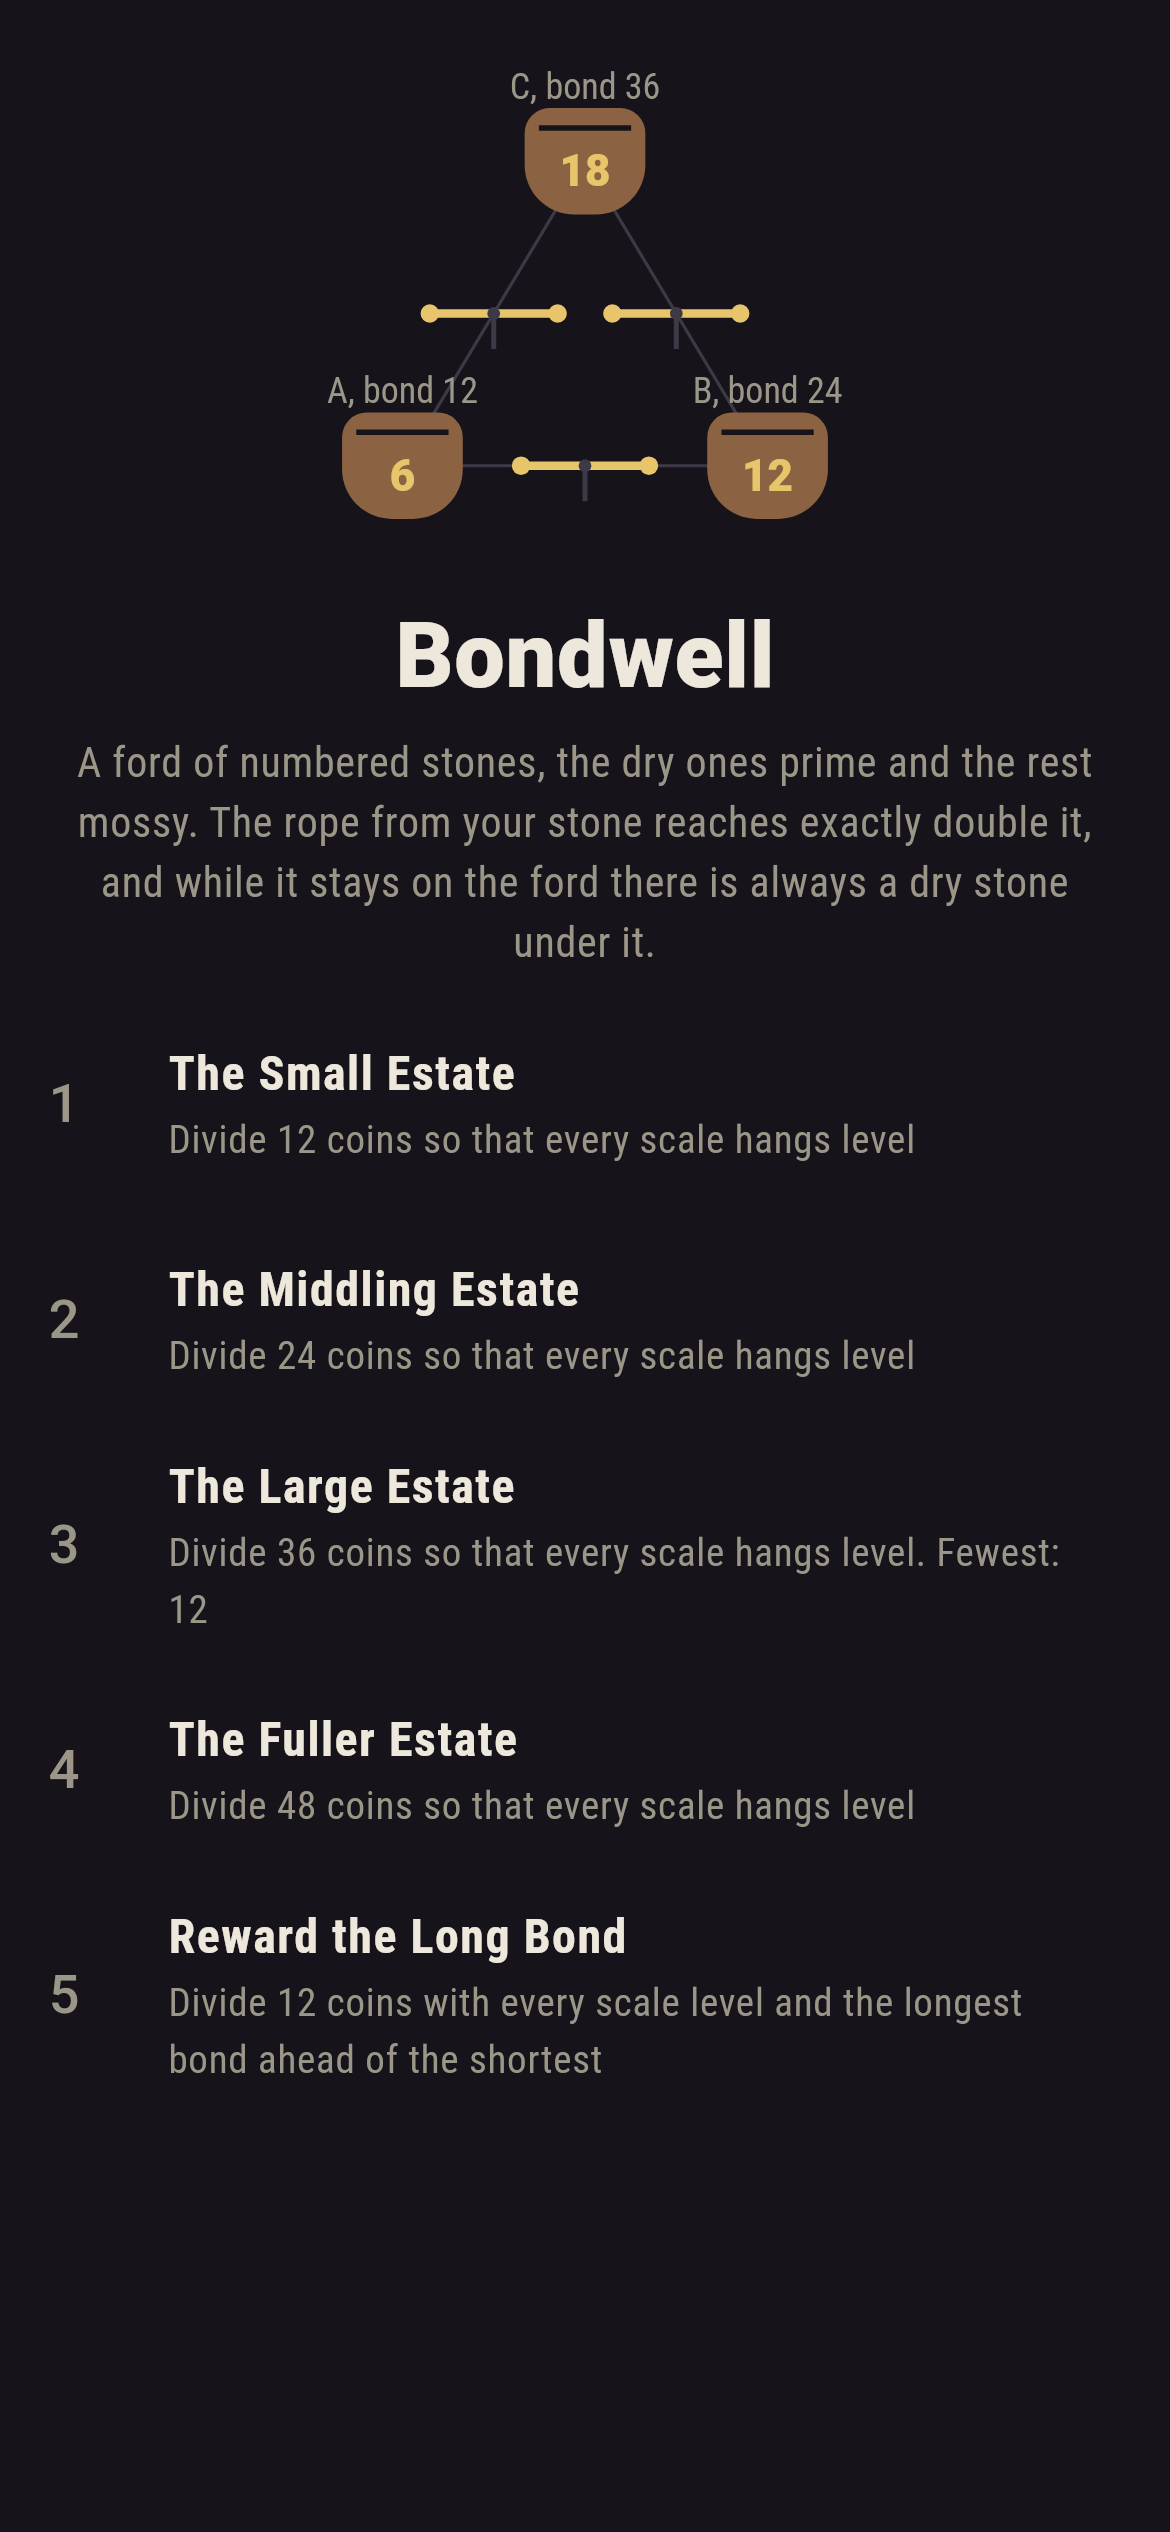
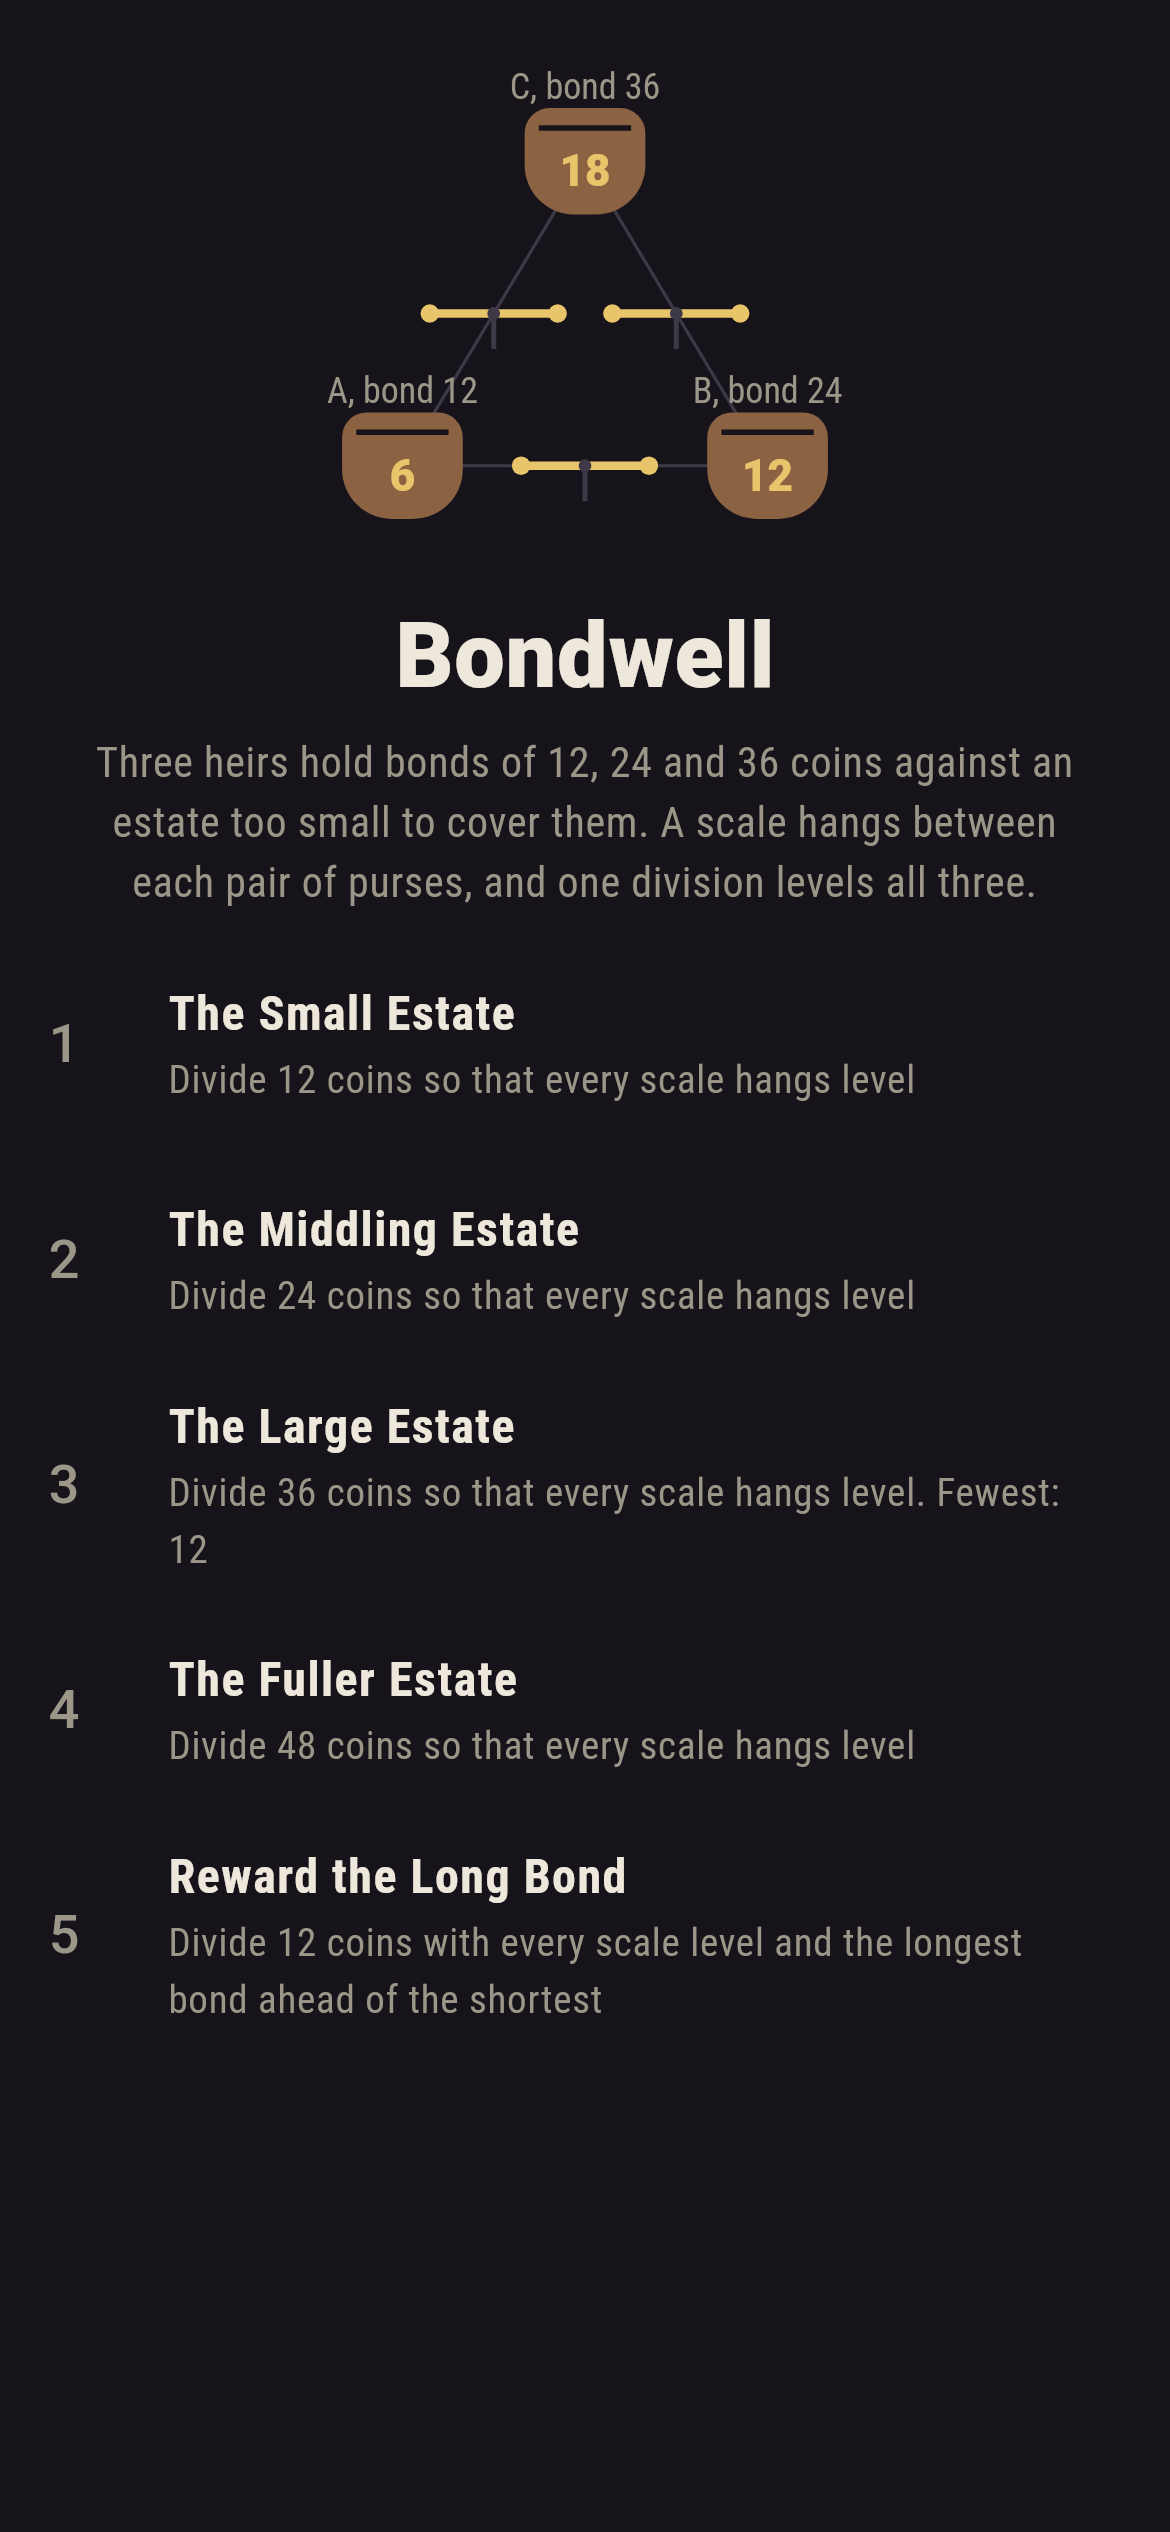
Leverstow, Bondwell, Penfold: their own words on the title screen

diff --git a/Bondwell/tool/_probe.dart b/Bondwell/tool/_probe.dart
@@ -1,0 +1,81 @@
+import 'package:bondwell/bond/rules.dart';
+import 'package:bondwell/bond/levels.dart';
+import 'package:bondwell/bond/play.dart';
+
+void main() {
+  print('garment(4,2,4) = ${Rules.garmentParts(4, 2, 4)}  (twelfths)');
+  print('garment(10,4,12) = ${Rules.garmentParts(10, 4, 12)}');
+  print('garment(12,24,12) = ${Rules.garmentParts(12, 24, 12)}');
+  // direction check on the Mishnah's own garment scaled: claims 2 and 1, estate 2
+  print('garment(2,1,2) = ${Rules.garmentParts(2, 1, 2)}  want (18,6) i.e. 3/2 and 1/2');
+
+  // proportional estates
+  final prop = <int>[];
+  for (var e = 0; e <= 72; e++) {
+    final s = Rules.shares(e);
+    // proportional to 12,24,36 means s[1]==2*s[0] and s[2]==3*s[0]
+    if (s[1] == 2 * s[0] && s[2] == 3 * s[0]) prop.add(e);
+  }
+  print('proportional estates 0..72: $prop');
+  print('shares(36)=${Rules.shares(36)} shares(72)=${Rules.shares(72)}');
+
+  // estate 12: how many divisions put C ahead of A; how many level
+  var cAhead = 0, level = 0, both = 0;
+  final levellers = <List<int>>[];
+  for (final d in Rules.divisions(12)) {
+    if (d[2] > d[0]) cAhead++;
+    if (Rules.allLevel(d)) { level++; levellers.add(d); }
+    if (d[2] > d[0] && Rules.allLevel(d)) both++;
+  }
+  print('estate 12: 91? ${Rules.howManyDivisions(12)}; C ahead of A: $cAhead; level: $level $levellers; both: $both');
+
+  // short bond share across estates
+  final firsts = <int, List<int>>{};
+  for (final e in [12, 18, 24, 36, 48, 54, 57]) firsts[e] = Rules.shares(e).map((p) => p).toList();
+  print('shares by estate: $firsts');
+
+  // division above 72
+  for (final e in [72, 73, 75, 78, 84]) {
+    final d = Rules.division(e);
+    print('division($e) = $d  shares=${Rules.shares(e)} allLevel=${d == null ? 'n/a' : Rules.allLevel(d)}');
+  }
+
+  // tilt units
+  print('tilt([5,3,4],0,1) = ${Rules.tilt([5, 3, 4], 0, 1)}');
+  print('tilts of [9,6,6] middling: ${Play.standing(Levels.at(1), const [9, 6, 6]).tilts}');
+
+  // pair concessions at estate 24 division 6,9,9
+  int conceded(int mine, int pot) => pot - mine > 0 ? pot - mine : 0;
+  print('estate 24 [6,9,9]: pair AB pot 15, A concedes ${conceded(12, 15)}, B concedes ${conceded(24, 15)}');
+  print('estate 12 [4,4,4]: pair AB pot 8, A concedes ${conceded(12, 8)}, B concedes ${conceded(24, 8)}');
+
+  // _equalAwards divisibility across estates: shares sum
+  var bad = 0;
+  for (var e = 0; e <= 72; e++) {
+    final s = Rules.shares(e);
+    if (s.reduce((a, b) => a + b) != Rules.parts * e) { bad++; print('sum off at $e: $s'); }
+  }
+  print('estates whose shares do not sum: $bad');
+
+  // seen set: repeated same division
+  var p = Play.of(Levels.all.last);
+  p = p.step(2, 3).step(2, 3).step(2, 3).step(2, 3); // [0,0,12]
+  print('after fill: moves=${p.moves} seen=${p.seen} gaveUp=${p.gaveUp}');
+  for (var i = 0; i < 8; i++) {
+    p = p.step(2, -1).step(2, 1);
+    if (p.gaveUp) { print('gave up at moves=${p.moves} seen=${p.seen.length}'); break; }
+  }
+  print('after wobble: moves=${p.moves} seen=${p.seen.length} gaveUp=${p.gaveUp}');
+
+  // three distinct
+  var q = Play.of(Levels.all.last);
+  for (final t in [[0,0,12],[0,3,9],[3,3,6]]) {
+    // reset purses by taking out then putting in is messy; just use fresh path counts
+  }
+  print('fewest per level: ${[for (final l in Levels.all) l.fewest]}');
+  print('aim fuller: ${Levels.at(3).aim}');
+  // pointer from [5,0,0] on fuller
+  var f = Play.standing(Levels.at(3), const [5, 0, 0]);
+  print('pointer at [5,0,0] fuller: ${f.next}');
+  print('taps counts: ${[for (final l in Levels.all) l.divisions]}');
+}

diff --git a/Bondwell/lib/ui/title_screen.dart b/Bondwell/lib/ui/title_screen.dart
@@ -42,10 +42,9 @@ class _TitleScreenState extends State<TitleScreen> {
               const Padding(
                 padding: EdgeInsets.fromLTRB(24, 4, 24, 8),
                 child: Text(
-                  'A ford of numbered stones, the dry ones prime and the rest '
-                  'mossy. The rope from your stone reaches exactly double it, '
-                  'and while it stays on the ford there is always a dry stone '
-                  'under it.',
+                  'Three heirs hold bonds of 12, 24 and 36 coins against '
+                  'an estate too small to cover them. A scale hangs between '
+                  'each pair of purses, and one division levels all three.',
                   textAlign: TextAlign.center,
                   style:
                       TextStyle(color: Palette.inkDim, fontSize: 14),

diff --git a/Penfold/lib/ui/title_screen.dart b/Penfold/lib/ui/title_screen.dart
@@ -42,10 +42,9 @@ class _TitleScreenState extends State<TitleScreen> {
               const Padding(
                 padding: EdgeInsets.fromLTRB(24, 4, 24, 8),
                 child: Text(
-                  'A ford of numbered stones, the dry ones prime and the rest '
-                  'mossy. The rope from your stone reaches exactly double it, '
-                  'and while it stays on the ford there is always a dry stone '
-                  'under it.',
+                  'Four fields, four sheep and two whistles that move '
+                  'every sheep at once. Find the call that gathers the flock, '
+                  'if the fold has one at all.',
                   textAlign: TextAlign.center,
                   style:
                       TextStyle(color: Palette.inkDim, fontSize: 14),

diff --git a/Leverstow/lib/ui/title_screen.dart b/Leverstow/lib/ui/title_screen.dart
@@ -42,10 +42,9 @@ class _TitleScreenState extends State<TitleScreen> {
               const Padding(
                 padding: EdgeInsets.fromLTRB(24, 4, 24, 8),
                 child: Text(
-                  'A ford of numbered stones, the dry ones prime and the rest '
-                  'mossy. The rope from your stone reaches exactly double it, '
-                  'and while it stays on the ford there is always a dry stone '
-                  'under it.',
+                  'Two levers, both fair on their own, and a loop to run '
+                  'them in. Nearly every loop you can build climbs, which is '
+                  'Parrondo\'s paradox.',
                   textAlign: TextAlign.center,
                   style:
                       TextStyle(color: Palette.inkDim, fontSize: 14),

diff --git a/Bondwell/test/title_test.dart b/Bondwell/test/title_test.dart
@@ -11,6 +11,8 @@ void main() {
   testWidgets('the sham lists every ask by name and task', (tester) async {
     await open(tester);
     expect(find.text('Bondwell'), findsOneWidget);
+    expect(find.textContaining('A scale hangs between each pair of purses'),
+        findsOneWidget);
     for (final level in Levels.all) {
       expect(find.text(level.name), findsOneWidget);
     }

diff --git a/Penfold/test/title_test.dart b/Penfold/test/title_test.dart
@@ -11,6 +11,8 @@ void main() {
   testWidgets('the sham lists every ask by name and task', (tester) async {
     await open(tester);
     expect(find.text('Penfold'), findsOneWidget);
+    expect(find.textContaining('Four fields, four sheep and two whistles'),
+        findsOneWidget);
     for (final level in Levels.all) {
       expect(find.text(level.name), findsOneWidget);
     }

diff --git a/Leverstow/test/title_test.dart b/Leverstow/test/title_test.dart
@@ -11,6 +11,8 @@ void main() {
   testWidgets('the sham lists every ask by name and task', (tester) async {
     await open(tester);
     expect(find.text('Leverstow'), findsOneWidget);
+    expect(find.textContaining('Two levers, both fair on their own'),
+        findsOneWidget);
     for (final level in Levels.all) {
       expect(find.text(level.name), findsOneWidget);
     }
